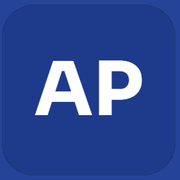
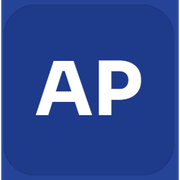
Changes

diff --git a/src/routes/index.tsx b/src/routes/index.tsx
@@ -5,21 +5,21 @@ import { Button } from "@/components/ui/button";
 import { Input } from "@/components/ui/input";
 import { Label } from "@/components/ui/label";
 import { auditSchema, submitAudit } from "@/lib/audit.functions";
+import logoAsset from "@/assets/ap-digital-studio-logo.png.asset.json";
 
-// Placeholders — replace with your own details
-const AGENCY_NAME = "[Your Agency Name]";
-const AGENCY_PHONE = "(555) 555-5555";
+const AGENCY_NAME = "AP Digital Studio";
+const AGENCY_PHONE = "(786) 247-8529";
 
 export const Route = createFileRoute("/")({
   head: () => ({
     meta: [
-      { title: "More 5-Star Reviews for Appliance Repair Businesses" },
+      { title: "AP Digital Studio — More 5-Star Google Reviews for Appliance Repair" },
       {
         name: "description",
         content:
-          "A done-for-you Google review system for appliance repair companies. More reviews, higher rankings, more calls. Get a free review audit.",
+          "AP Digital Studio runs a done-for-you Google review system for appliance repair companies. More reviews, higher rankings, more calls. Get a free review audit.",
       },
-      { property: "og:title", content: "More 5-Star Reviews for Appliance Repair Businesses" },
+      { property: "og:title", content: "AP Digital Studio — More 5-Star Google Reviews for Appliance Repair" },
       {
         property: "og:description",
         content: "Done-for-you review system: more Google reviews, higher ranking, more jobs. Get your free audit.",
@@ -54,11 +54,8 @@ function Index() {
     <div className="min-h-screen font-sans text-lg">
       <header className="sticky top-0 z-20 border-b border-border bg-background/90 backdrop-blur">
         <div className="mx-auto flex max-w-6xl items-center justify-between px-5 py-3">
-          <a href="#" className="flex items-center gap-2">
-            <span className="grid size-10 place-items-center rounded-xl border-2 border-dashed border-primary/40 bg-primary-soft text-xs font-bold text-primary">
-              LOGO
-            </span>
-            <span className="font-display text-lg font-bold">{AGENCY_NAME}</span>
+          <a href="#" className="flex items-center" aria-label={`${AGENCY_NAME} — home`}>
+            <img src={logoAsset.url} alt={AGENCY_NAME} className="h-8 w-auto sm:h-10" />
           </a>
           <a href={`tel:${AGENCY_PHONE.replace(/[^0-9+]/g, "")}`} className="hidden items-center gap-2 font-semibold text-primary sm:flex">
             <Phone className="size-4" /> {AGENCY_PHONE}
